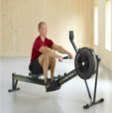
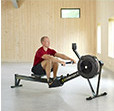
modelod organizando fotos

diff --git a/app/templates/produtos/modelod.html b/app/templates/produtos/modelod.html
@@ -19,9 +19,15 @@
         </div>
         <div class="col-md-10 modelo">
             <div class="col-md-7">
-                <img src="static/img/produtos/modelod/modelodbgbranco.jpg"/>
+                <img class="imgp" src="static/img/produtos/modelod/modelod-bgbranco.jpg"/>
             </div>
-            <div class="col-md-5">
+            <div class="col-md-5 colright">
+                <img class="img1" src="static/img/produtos/modelod/dpreto.jpg"/>
+                <img src="static/img/produtos/modelod/D_stored_ltgray.jpg"/>
+                <img class="img2" src="static/img/produtos/modelod/lifestyle_kat_ltgray.jpg"/>
+                <img src="static/img/produtos/modelod/campeonato-CrossFit.JPG"/>
+                <img class="img3" src="static/img/produtos/modelod/pm5_black_backlight.jpg"/>
+                <img src="static/img/produtos/modelod/blackD_separating.jpg"/>
             </div>
             <div class="col-md-12">
             <nav>

diff --git a/app/static/css/app.css b/app/static/css/app.css
@@ -10219,11 +10219,24 @@ header .navegacao .form-busca i {
 .pagina-produtos .modelo {
   background-color: white;
 }
-.pagina-produtos .modelo img {
-  margin-left: -31px;
+.pagina-produtos .modelo .imgp {
+  margin-left: -30px;
+  width: 625px;
 }
 .pagina-produtos .descricao-caixa {
   margin-top: 20px;
+}
+.pagina-produtos .colright {
+  margin-top: 14px;
+}
+.pagina-produtos .colright .img1 {
+  margin-left: 97px;
+}
+.pagina-produtos .colright .img2 {
+  margin-left: 90px;
+}
+.pagina-produtos .colright .img3 {
+  margin-left: 92px;
 }
 
 .pagina-eventos .lista-caixa {

diff --git a/sass/modelod.scss b/sass/modelod.scss
@@ -1,10 +1,31 @@
-.modelo{
+.modelo {
     background-color: white;
-    img{
-        margin-left: -31px;
+    .imgp {
+        margin-left: -30px;
+        width: 625px;
+
     }
 
 }
-.descricao-caixa{
+
+.descricao-caixa {
     margin-top: 20px;
+}
+
+.colright {
+    margin-top: 14px;
+
+
+.img1 {
+    margin-left: 97px;
+}
+
+.img2 {
+    margin-left: 90px;
+}
+
+.img3 {
+    margin-left: 92px;
+}
+
 }
